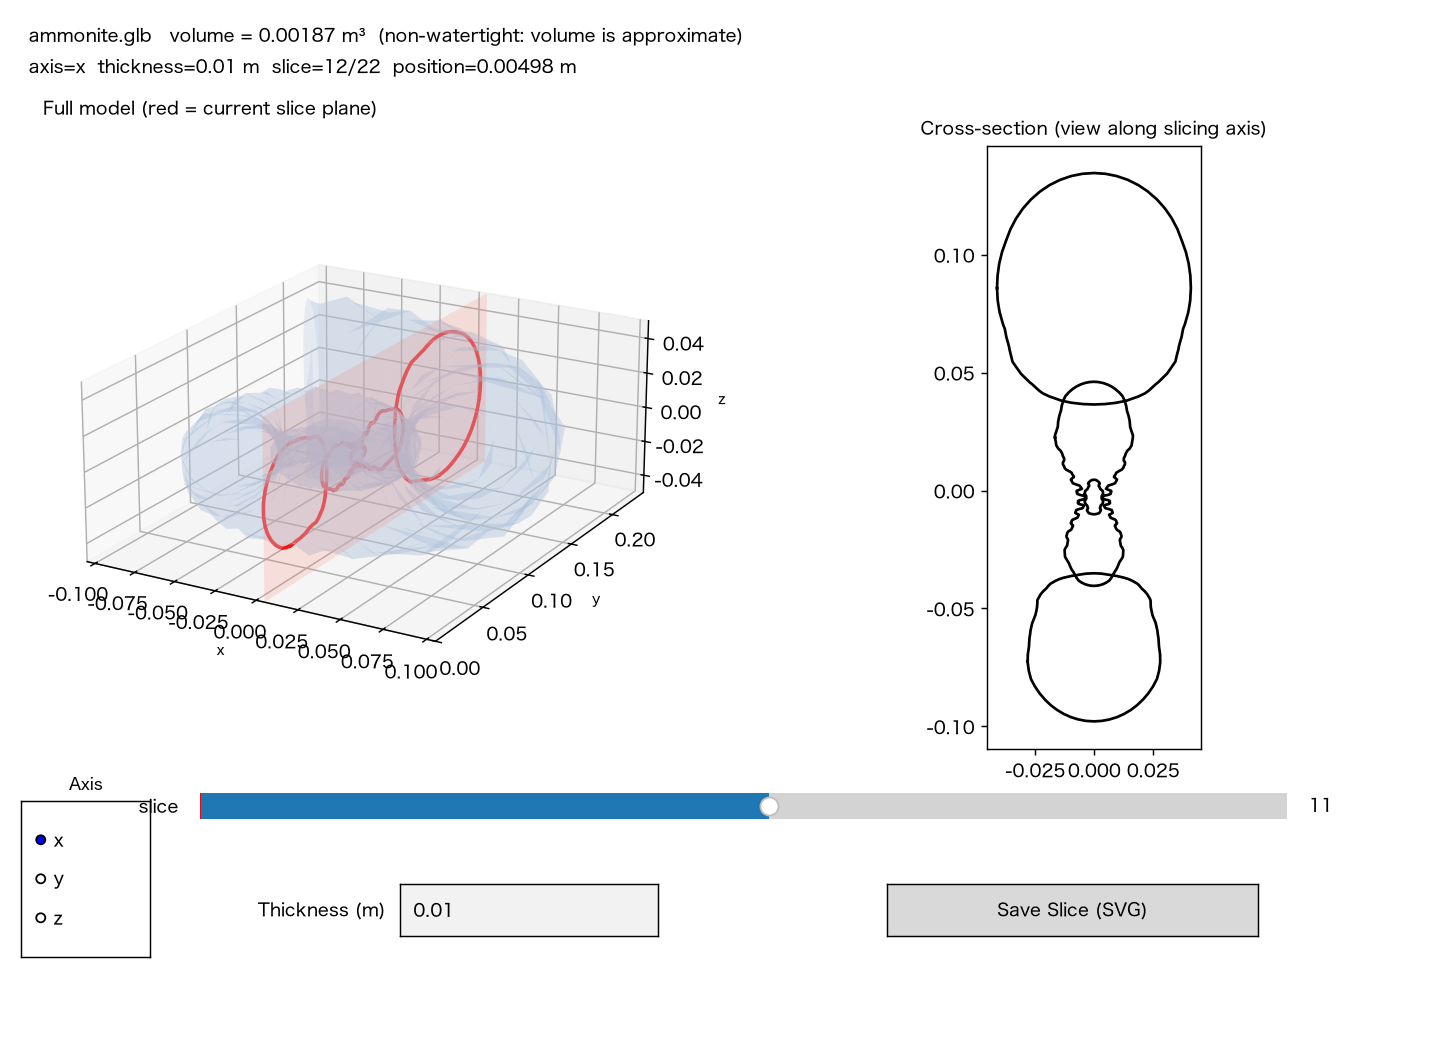
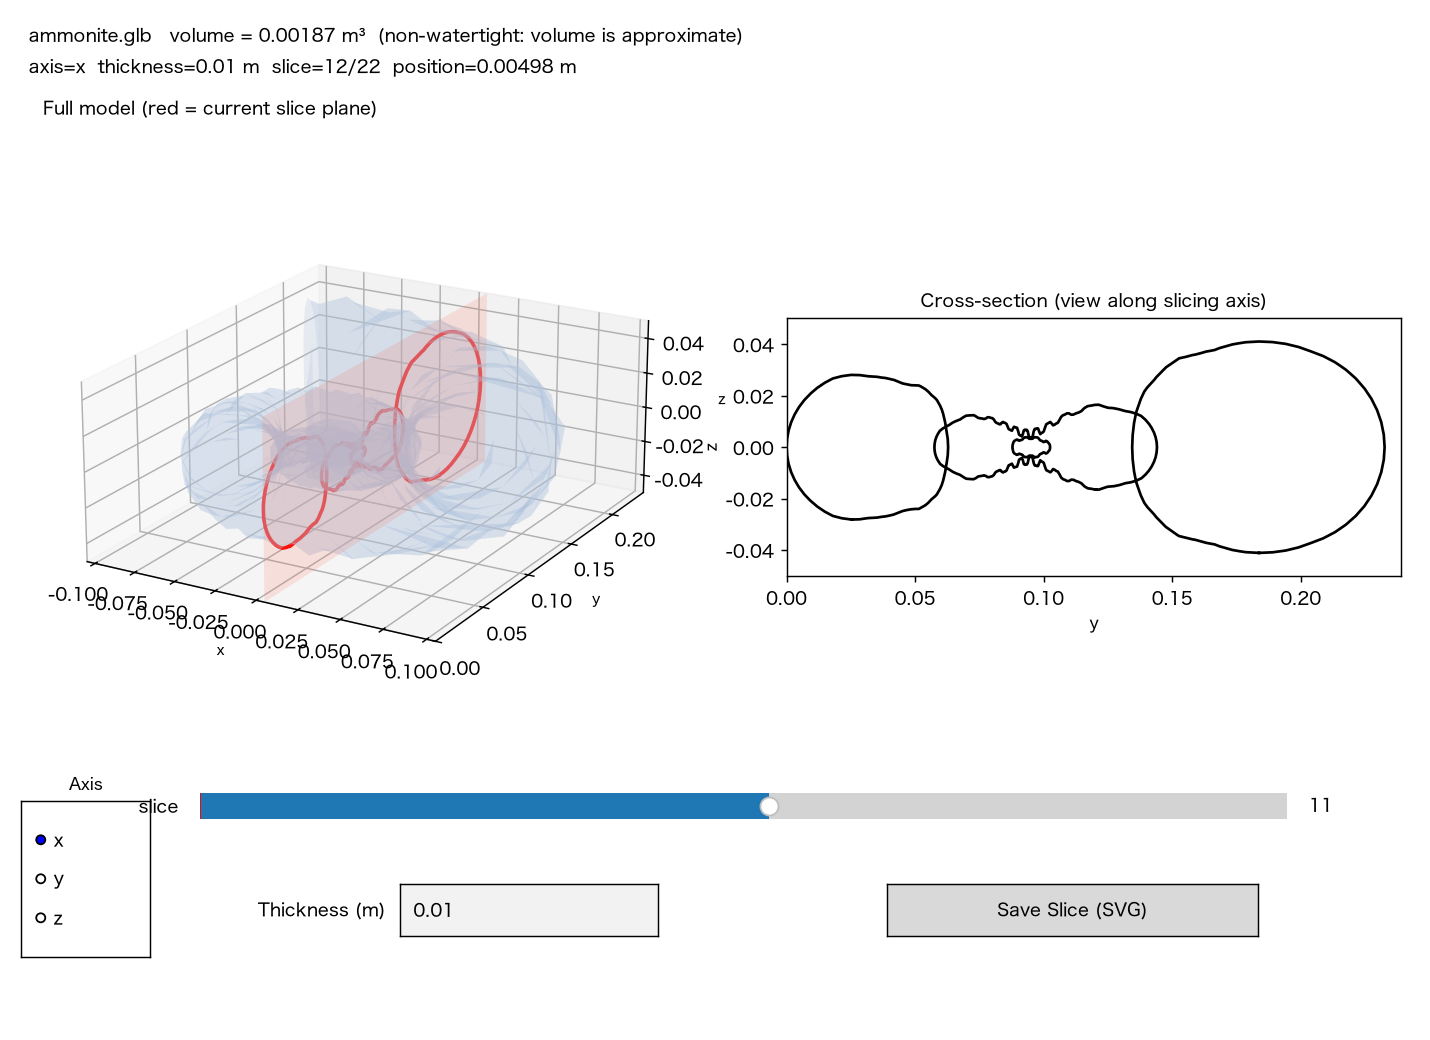
Fix cross-section panel scale mismatch vs 3D view
断面図がtrimeshの断面ごとに異なるローカル2D座標系(path_2d)を使って自動スケーリングされていたため、小さい断片がパネルいっぱいに拡大され3D表示と対応しない見た目になっていた(特にz軸のようにthin方向でスライスすると顕著)。3Dハイライトと同じワールド座標(discrete_3d)を直接プロットし、表示範囲もモデル全体のバウンディングボックスに固定するよう修正。

hide

diff --git a/src/slice3d/gui.py b/src/slice3d/gui.py
@@ -53,6 +53,8 @@ _MAX_PREVIEW_FACES = 4_000
 # STL/OBJ/PLYなどは単位の情報を持たないファイル形式なので、既定は単位なし(空文字)。
 _UNITS_BY_EXTENSION = {".glb": "m", ".gltf": "m"}
 
+_AXIS_NAMES = ("x", "y", "z")
+
 
 def _default_units(model_path: Path) -> str:
     return _UNITS_BY_EXTENSION.get(model_path.suffix.lower(), "")
@@ -288,16 +290,30 @@ class SliceViewer:
 
         self._update_3d_highlight(index, discrete_3d)
 
+        # 断面図は3Dハイライトと同じワールド座標(discrete_3d)をそのまま2軸に投影して描く。
+        # path_2d(trimeshが断面ごとに独自に選ぶローカル2D座標系)を使うと、断面の形だけで
+        # 自動スケーリングされてしまい、小さな断片がパネルいっぱいに拡大されて3D表示と
+        # 対応が取れなくなる(特にthin方向の軸でスライスすると顕著)。
+        # ここではモデル全体のバウンディングボックスに表示範囲を固定し、常に同じ縮尺で見せる。
+        axis_idx = core.AXES[self.axis]
+        other = [i for i in range(3) if i != axis_idx]
+        xlabel, ylabel = _AXIS_NAMES[other[0]], _AXIS_NAMES[other[1]]
+
         self.ax_section.clear()
         self.ax_section.set_aspect("equal")
         self.ax_section.set_title("Cross-section (view along slicing axis)", fontsize=10)
+        self.ax_section.set_xlabel(xlabel, fontsize=9)
+        self.ax_section.set_ylabel(ylabel, fontsize=9)
+        b = self.mesh.bounds
+        self.ax_section.set_xlim(b[0, other[0]], b[1, other[0]])
+        self.ax_section.set_ylim(b[0, other[1]], b[1, other[1]])
         if path_2d is None:
             self.ax_section.text(
                 0.5, 0.5, "No intersection", ha="center", va="center", transform=self.ax_section.transAxes
             )
         else:
-            for polyline in path_2d.discrete:
-                self.ax_section.plot(polyline[:, 0], polyline[:, 1], "-k")
+            for polyline in discrete_3d:
+                self.ax_section.plot(polyline[:, other[0]], polyline[:, other[1]], "-k")
 
         self.pos_text.set_text(
             f"axis={self.axis}  thickness={self._fmt_length(self.thickness)}  "

diff --git a/tests/test_gui.py b/tests/test_gui.py
@@ -2,6 +2,7 @@ import matplotlib
 
 matplotlib.use("Agg")
 
+import pytest
 import trimesh
 
 from slice3d.gui import SliceViewer
@@ -54,6 +55,39 @@ def test_viewer_3d_highlight_updates_with_slider(tmp_path):
 
     assert viewer._plane_artist is not None
     assert len(viewer._curve_lines) >= 1
+
+
+def test_viewer_section_panel_matches_3d_scale(tmp_path):
+    """断面図がpath_2dの自動スケーリングでズームされず、常にモデル全体の
+    バウンディングボックスに固定表示されることを確認する(3D表示との対応が
+    取れなくなる回帰を防ぐ)。"""
+    model_path = make_sphere_file(tmp_path)
+    viewer = SliceViewer(model_path, axis="z", thickness=2.5)
+
+    b = viewer.mesh.bounds
+    for index in (0, len(viewer.heights) // 2, len(viewer.heights) - 1):
+        viewer.slider.set_val(index)
+        assert viewer.ax_section.get_xlim() == pytest.approx((b[0, 0], b[1, 0]))
+        assert viewer.ax_section.get_ylim() == pytest.approx((b[0, 1], b[1, 1]))
+
+
+def test_viewer_section_uses_world_coordinates(tmp_path):
+    """断面図に描く座標が、3Dハイライト(discrete_3d)と同じワールド座標系の
+    値であることを確認する(trimeshの断面ごとに異なるローカル2D座標系を
+    そのまま使うと、3D側と対応しない見た目になる)。"""
+    model_path = make_sphere_file(tmp_path)
+    viewer = SliceViewer(model_path, axis="x", thickness=2.5)
+
+    middle = len(viewer.heights) // 2
+    viewer.slider.set_val(middle)
+    _path_2d, discrete_3d = viewer._section_at(middle)
+
+    lines = [ln for ln in viewer.ax_section.get_lines()]
+    assert lines, "断面が描画されていません"
+    plotted_x = lines[0].get_xdata()
+    # axis="x" のとき、断面図の横軸はワールドのy座標に対応する。
+    assert plotted_x.min() == pytest.approx(discrete_3d[0][:, 1].min())
+    assert plotted_x.max() == pytest.approx(discrete_3d[0][:, 1].max())
 
 
 def test_viewer_save_writes_file(tmp_path):
